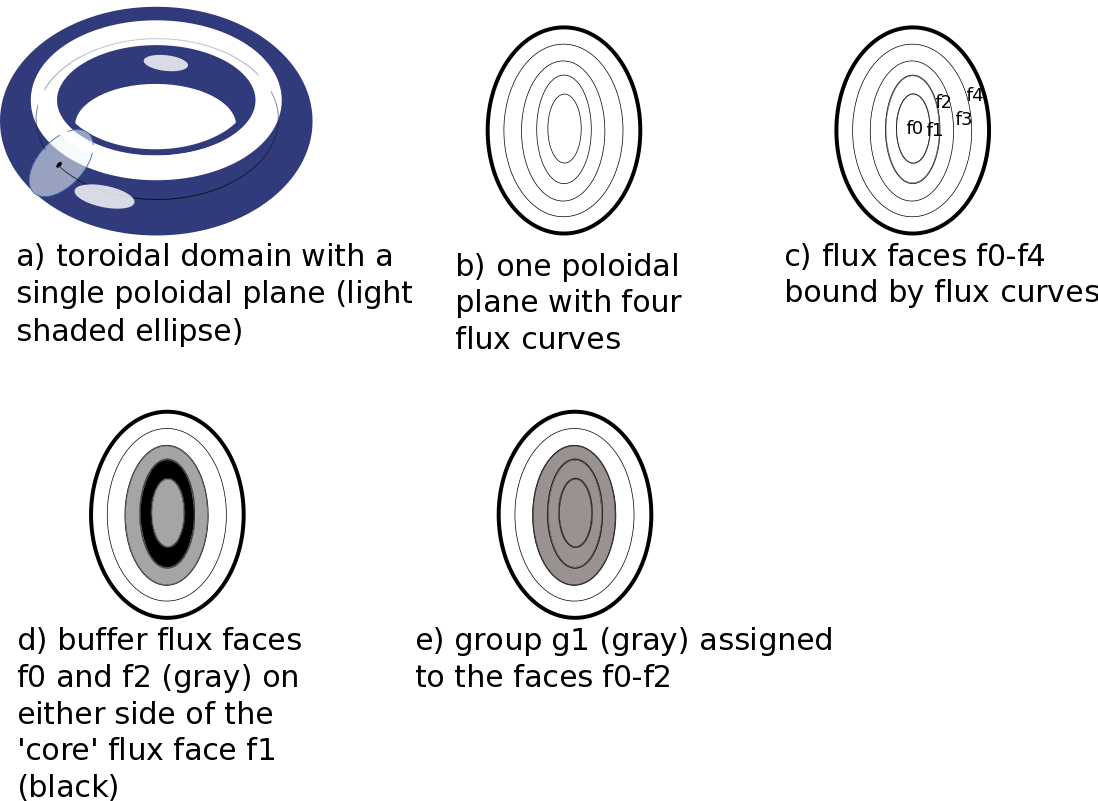
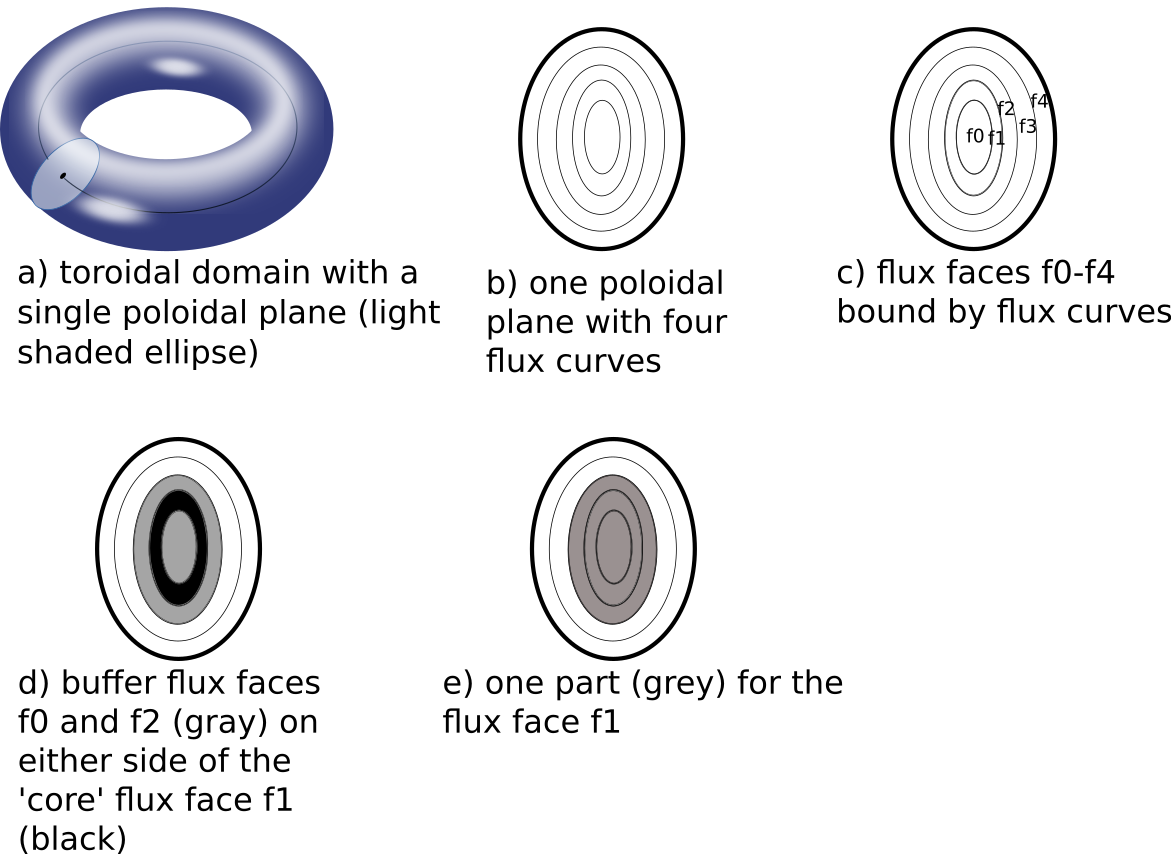
replace group with part

diff --git a/scala18/engpar_scala18.tex b/scala18/engpar_scala18.tex
@@ -157,9 +157,9 @@ destinations and the partition is changed.
 Plasma physics simulated using a PIC method utilize particles
 in the spatial domain of a mesh.
 In this work we focus on load balancing the computationally dominant particle
-push operation that is common to both PIC with fixed field (e.g., GITR~\cite{younkin2017})
+push operation that is common to both PIC codes with fixed field (e.g., GITR~\cite{younkin2017})
 and self-consistent field (e.g., XGC~\cite{chang2004numerical,Ku2016467,ku2009},
-M3D-C1~\cite{jardin2012multiple}, HPIC~\cite{hpic2017}) PIC codes.
+M3D-C1~\cite{jardin2012multiple}, HPIC~\cite{hpic2017}).
 Given initial electric and magnetic fields on the mesh, the value of the field
 for each particle is determined via interpolation from associated mesh vertices.
 The spatial position of the particles is then updated using a push operation.
@@ -182,14 +182,14 @@ Figure~\ref{fig:xgcmPtn}-a depicts a simplified representation of the tokamak co
 domain, the polodial planes that decompose it in the toroidal direction, and the
 definition of physics-based geometric features within the planes.
 Specifically, Figures~\ref{fig:xgcmPtn}-b and ~\ref{fig:xgcmPtn}-c depict the
-flux curve and the faces they form.
-Figures~\ref{fig:xgcmPtn}-d and ~\ref{fig:xgcmPtn}-e depicts a core and buffer
-flux faces, and their assignment to a group.
+flux curve and the faces they form. A part is made for each flux face.
 To satisfy information dependencies of particles belonging to the core,
 the sets of elements of neighboring cores are replicated to satisfy
 particle data dependencies and thus avoid communication during the
 computationally intensive particle push operation.
-These replicated elements are referred to as the buffer flux faces.
+These replicated elements are referred to as the buffer region.
+Figures~\ref{fig:xgcmPtn}-d and ~\ref{fig:xgcmPtn}-e depict a core and buffer
+flux faces that makes up one part. 
 This decomposition of the polodial plane is identical for all planes along the
 toroidal direction and does does not change during the simulation.
 
@@ -200,8 +200,8 @@ toroidal direction and does does not change during the simulation.
   \label{fig:xgcmPtn}
 \end{figure}
 
-The elements in the core assigned to each group, and some layers of the
-replicated elements that surround it, are marked as a safe region since there is
+The elements in the core flux face of each part, and some layers of the
+buffer region elements that surround it, are marked as a safe region since there is
 sufficient mesh field information available to satisfy the dependency of the
 push operation.
 Initially, particles are distributed uniformly over the Tokamak volume.
@@ -217,9 +217,9 @@ decision in EnGPar will always maintain this requirement in XGCm. Towards this,
 we represent each region
 of overlapping safe zones. Figure \ref{fig:sbars} depicts a model (a) with four flux faces labeled
 in (b) as f0-f3. Safe zones for each \texttt{core} is shown in the second row.
-Each overlapping safe zone set, $\bar{S_i}$, is in the third row. For a mesh face in
-one of the $\bar{S_i}$, the safe zones in the set represent each group a particle in that element
-can migrate to.
+Each overlapping safe zone set, $\bar{S_i}$, is in the third row. For an element in
+one of the $\bar{S_i}$, the safe zones in the set represent the parts that a particle in
+the element can migrate to.
 
 The N-graph is then constructed using the set of $\bar{S_i}$. For each $\bar{S_i}$ a
 component is constructed consisting of a hyperedge and vertices for each safe zone
